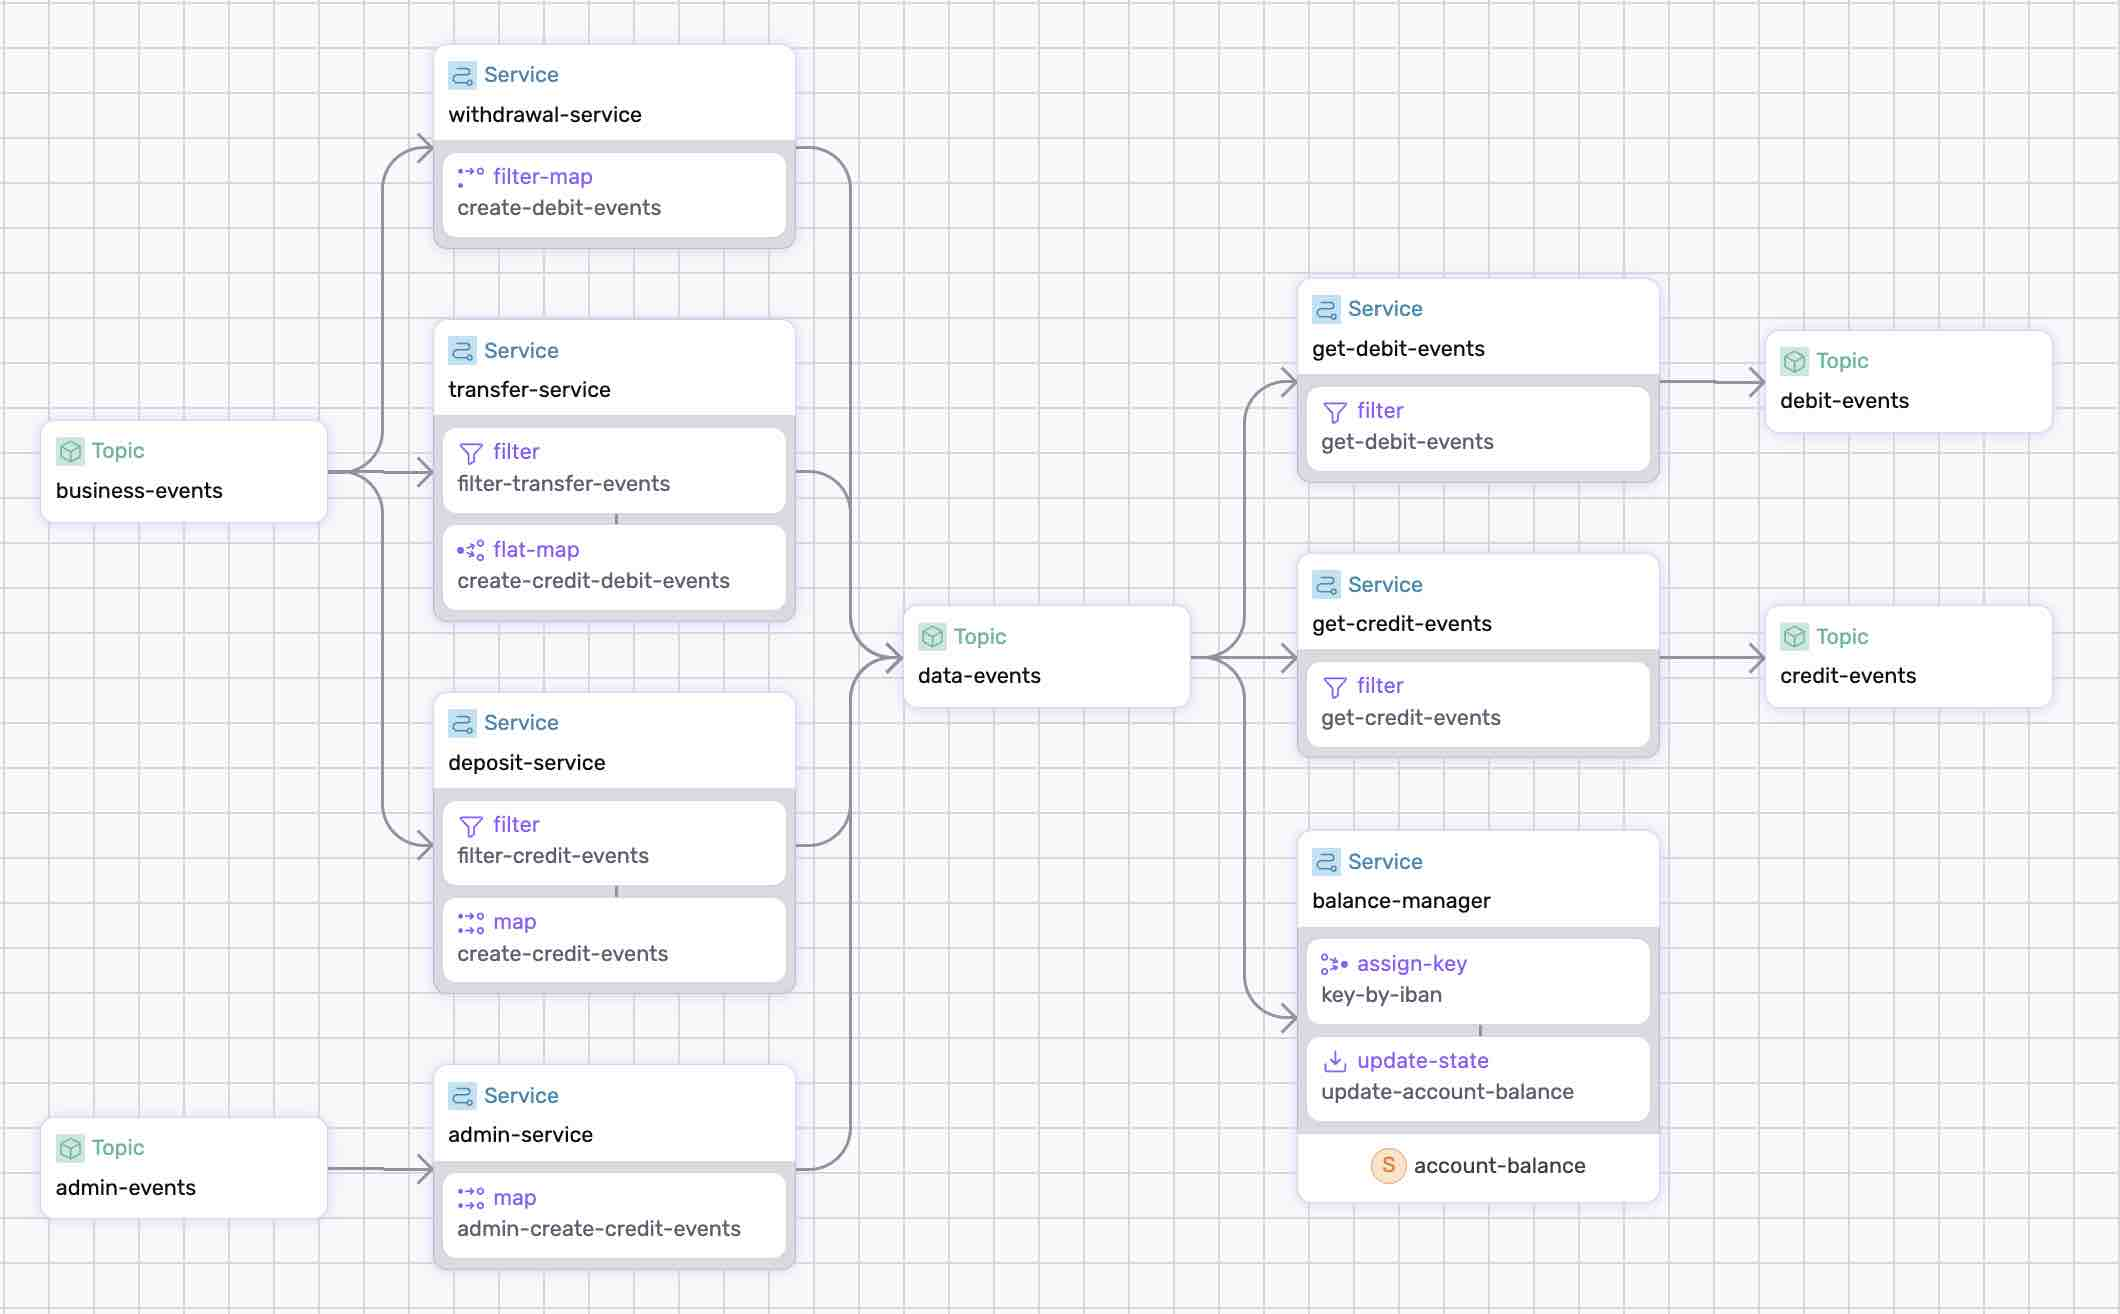
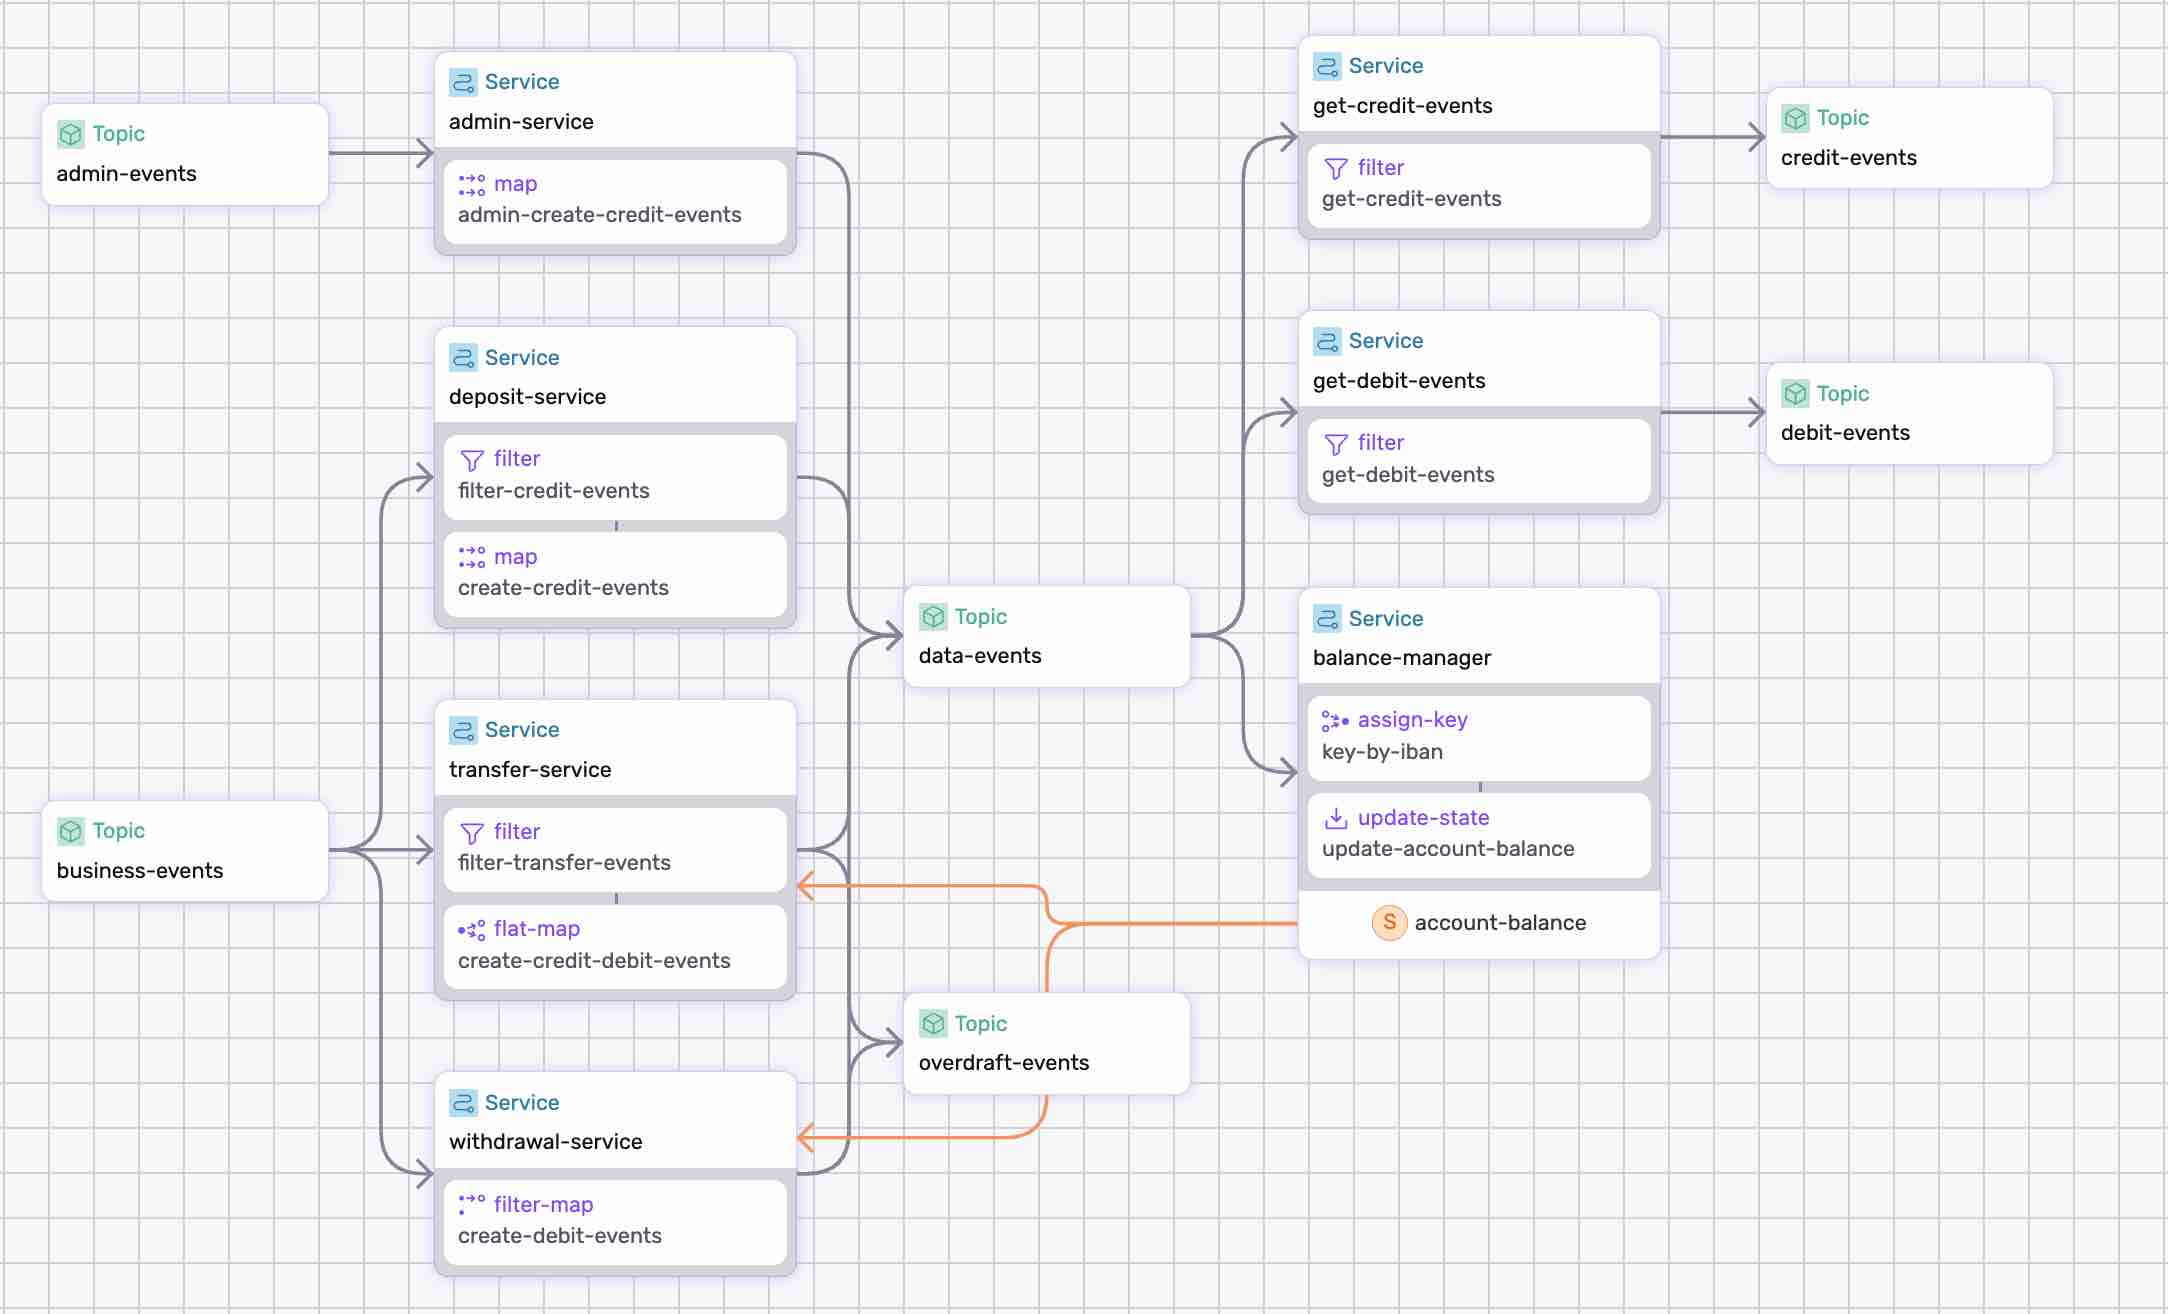
updated bank processing use case

diff --git a/use-cases/bank-processing/README.MD b/use-cases/bank-processing/README.MD
@@ -1,8 +1,8 @@
 # Bank Processing Data Pipeline
 
-The bank processing data pipeline ingests business events such as deposits, withdrawals, or transfers, transforms them into debit and credit events, computes the balance for each account. 
+The bank processing data pipeline ingests business events such as deposits, withdrawals, or transfers, transforms them into debit and credit events, computes the balance for each account.  
 
-**Note:** In the next version, the data pipeline will also detect insufficient funds and perform anomaly detection.
+In addition, the data pipeline detects insufficient funds and sends an events to an `overdraft` topic.
 
 
 <p align="center">
@@ -12,13 +12,16 @@ The bank processing data pipeline ingests business events such as deposits, with
 ## Pipeline Primitives
 
 The pipeline uses the following primitives:
+
 * _map_
 * _filter_
-* _filter_map_
+* _filter-map_
 * _flat-map_
 * _assign-key_
-* _update_state_
-* _states_
+* _update-state_
+* _states_ (ref-state)
+
+It also shows the ability to split traffic, by sending records to different topics.
 
 
 ## Step-by-step
@@ -49,6 +52,16 @@ Use `--ui` to open the Studio.
 
 ### 3. Test the Pipeline
 
+Use `fluvio consume` command to read from multiple streams in parallel:
+
+* `admin-events`
+* `business-events`
+* `data-events`
+* `debit-events`
+* `credit-events`
+* `overdraft-events`
+
+
 #### 3.1 Add Account
 
 Produce an `add-account` events to `admin-events` topic :
@@ -71,6 +84,8 @@ Check state in `ssdk` terminal:
  GB36MWIE43141216656969  2500     Lucy Cechtelar 
  GB56DVTE70858022060682  1000     Duncan Taylor
 ```
+
+Check the events in the following topics: `admin-events`, `data-events`, `credit-events`.
 
 #### 3.2 Deposit
 
@@ -97,6 +112,9 @@ Check state in `ssdk` terminal:
  GB56DVTE70858022060682  1500     Duncan Taylor  
 ```
 
+Check the events in the following topics: `business-events`, `data-events`, `credit-events`.
+
+
 #### 3.3 Withdrawal
 
 Produce an `withdrawal` events to `business-events` topic :
@@ -119,8 +137,10 @@ Check state in `ssdk` terminal:
 >> show state balance-manager/account-balance/state --table
  Key                     balance  name           
  GB36MWIE43141216656969  2660     Lucy Cechtelar 
- GB56DVTE70858022060682  1420     Duncan Taylor
+ GB56DVTE70858022060682  720      Duncan Taylor  
 ```
+
+Check the events in the following topics: `business-events`, `data-events`, `debit-events`.
 
 #### 3.4 Transfer
 
@@ -138,7 +158,7 @@ Check state in `ssdk` terminal:
 >> show state balance-manager/account-balance/state --table
  Key                     balance  name           
  GB36MWIE43141216656969  2710     Lucy Cechtelar 
- GB56DVTE70858022060682  1370     Duncan Taylor 
+ GB56DVTE70858022060682  670      Duncan Taylor 
 ```
 
 Transfer from `lucy` to `duncan`:
@@ -153,8 +173,28 @@ Check state in `ssdk` terminal:
 >> show state balance-manager/account-balance/state --table
  Key                     balance  name           
  GB36MWIE43141216656969  2610     Lucy Cechtelar 
- GB56DVTE70858022060682  1470     Duncan Taylor  
+ GB56DVTE70858022060682  770      Duncan Taylor  
 ```
 
+Check the events in the following topics: `business-events`, `data-events`, `credit-events`, `debit-events`.
+
+#### 3.4 Overdraft
+
+To trigger an overdraft, withdraw additinal funds from Duncan:
+
+Withdrawal `duncan`:
+
+```
+fluvio produce business-events --raw --file ./sample-data/withdrawal-duncan.json 
+```
+
+Check the events in the following topics: `business-events`, `data-events`, `debit-events`, `overdraft-events`.
+
+```
+>> show state balance-manager/account-balance/state --table
+ Key                     balance  name           
+ GB36MWIE43141216656969  2610     Lucy Cechtelar 
+ GB56DVTE70858022060682  -10      Duncan Taylor  
+```
 
 [Install SSDK & Start a Cluster]: /README.MD#prerequisites

diff --git a/README.MD b/README.MD
@@ -30,6 +30,7 @@ Use cases using data pipelines:
 
 * [bank-processing](/use-cases/bank-processing/)
 * [http-callout](//use-cases/http-callout/)
+* [openai-callout](//use-cases/openai-callout/)
 * [word-counter](//use-cases/word-counter/)
 
 ## Functions

diff --git a/use-cases/README.MD b/use-cases/README.MD
@@ -2,5 +2,5 @@
 
 * [bank-processing](./bank-processing/)
 * [http-callout](./http-callout/)
+* [openai-callout](./openai-callout/)
 * [word-counter](./word-counter/)
-* [openapi](./openapi/)
